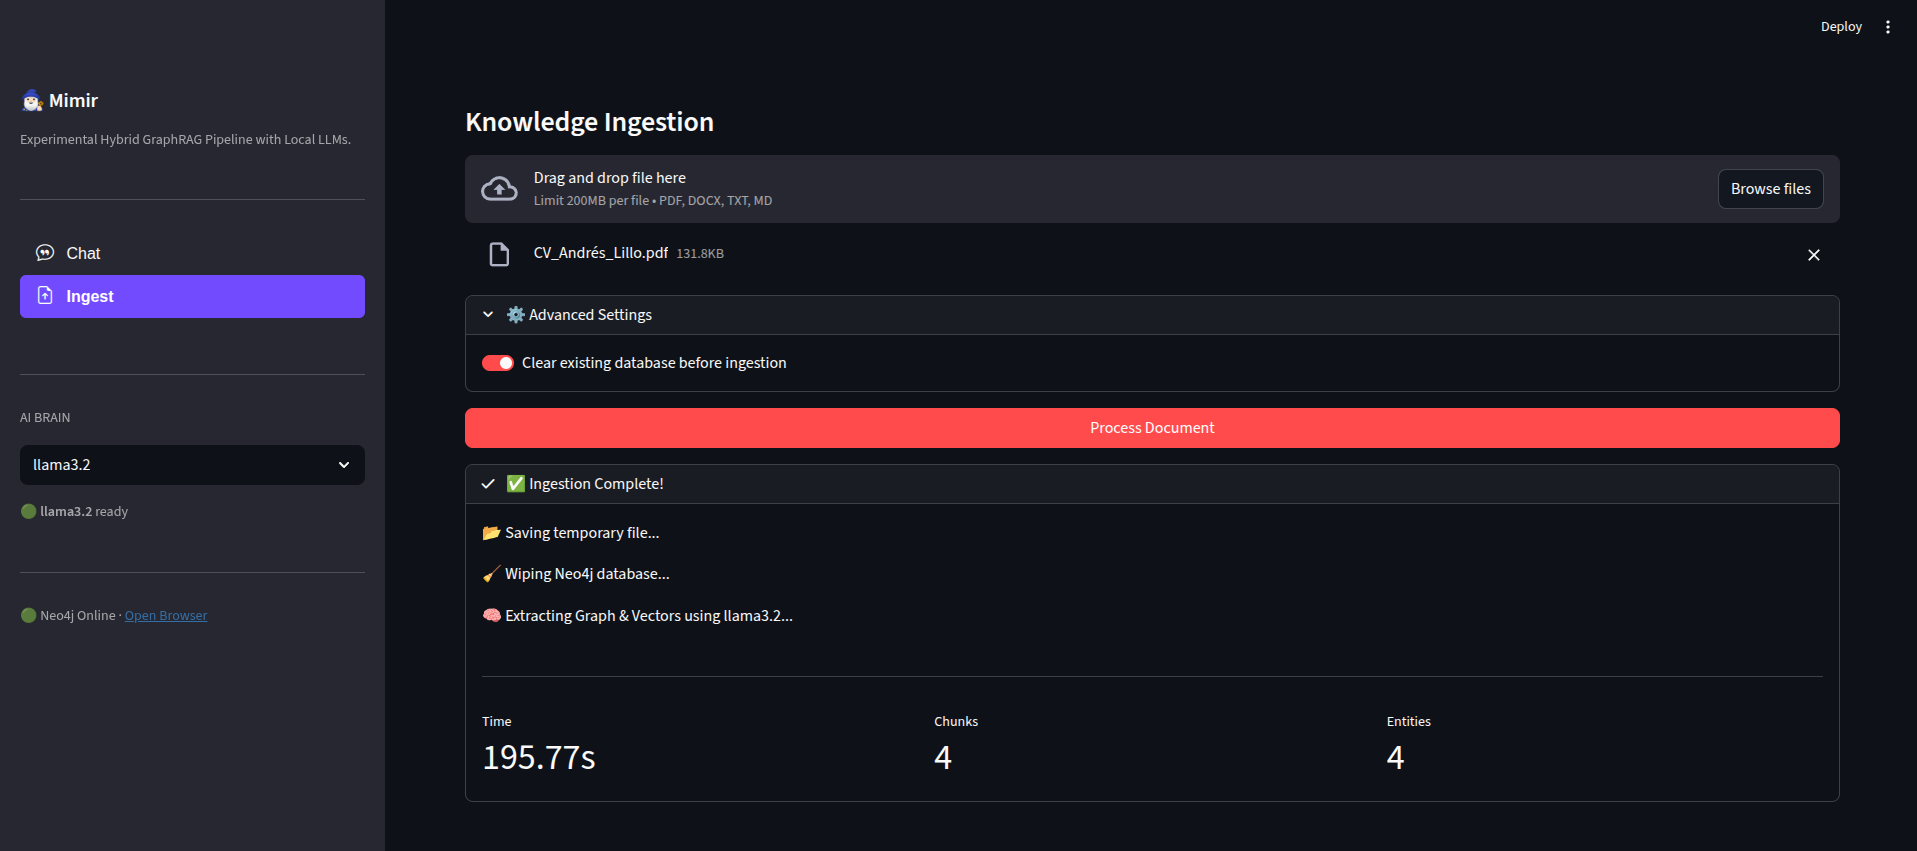
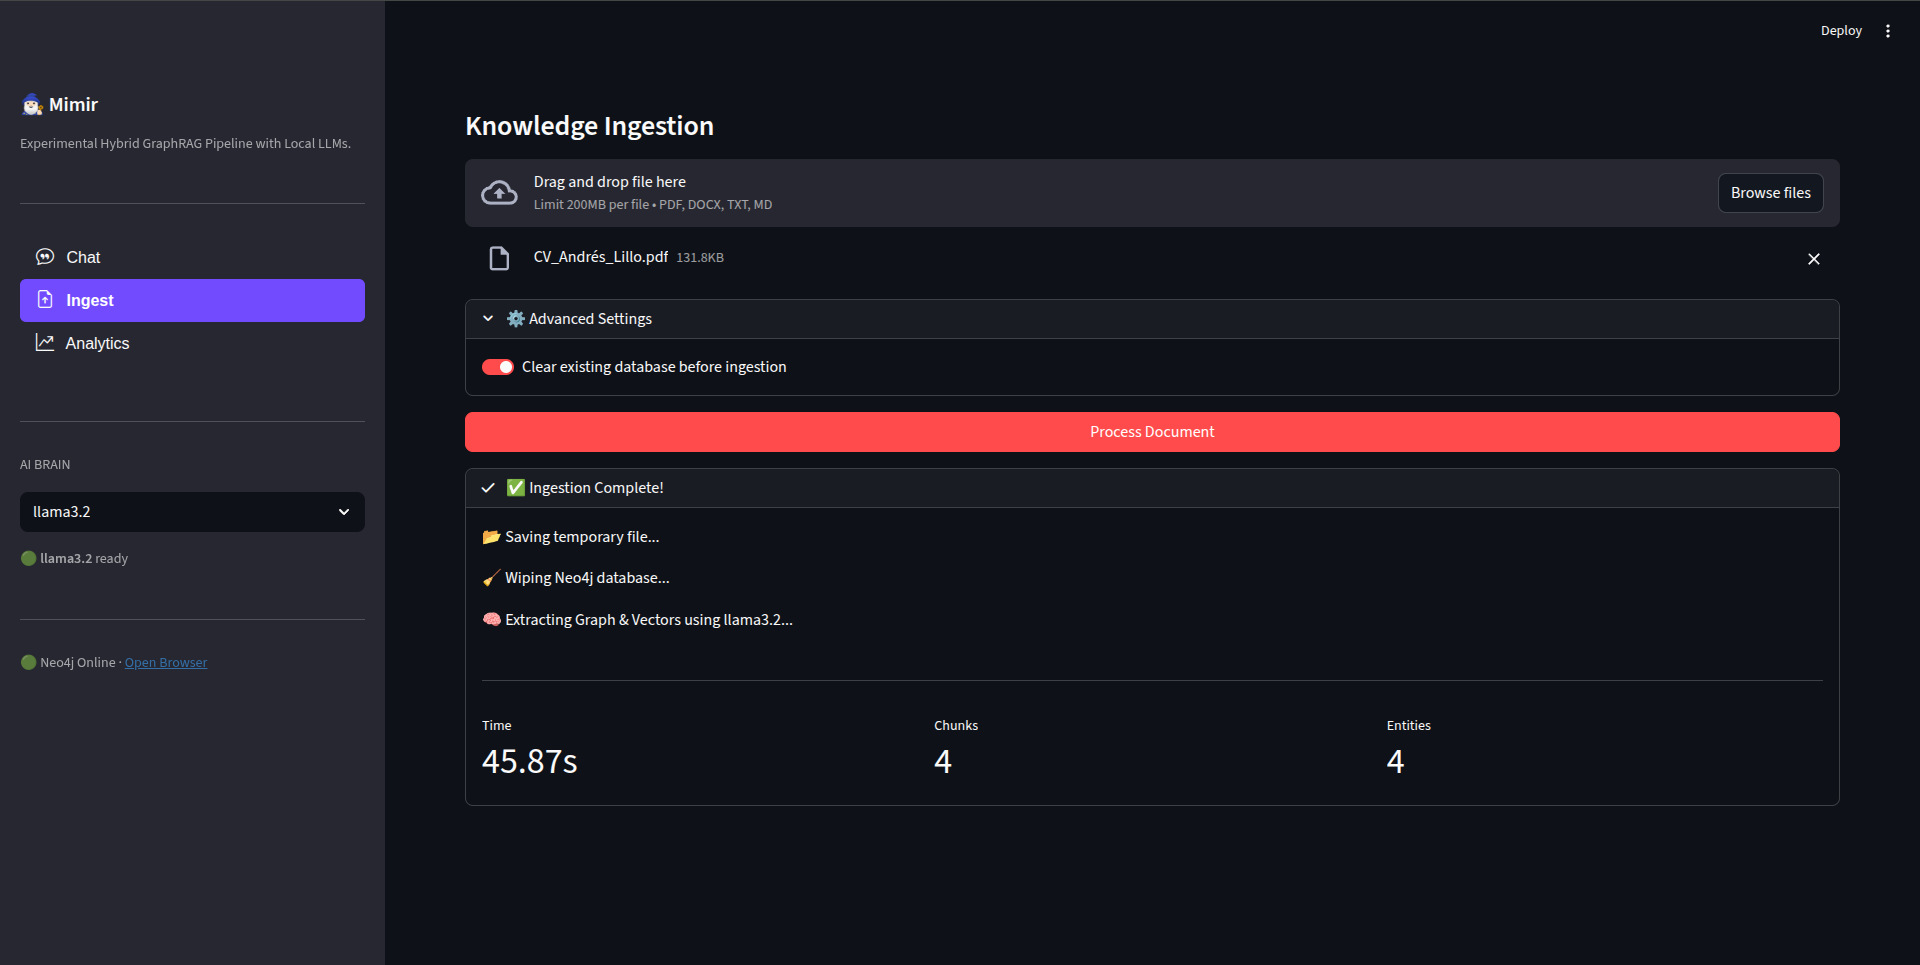
Analytics

diff --git a/modules/analytics.py b/modules/analytics.py
@@ -1,0 +1,108 @@
+# This file is part of Mimir.
+
+# Copyright (C) 2025 Andrés Lillo Ortiz
+
+# This program is free software: you can redistribute it and/or modify
+# it under the terms of the GNU General Public License as published by
+# the Free Software Foundation, either version 3 of the License, or
+# (at your option) any later version.
+
+# This program is distributed in the hope that it will be useful,
+# but WITHOUT ANY WARRANTY; without even the implied warranty of
+# MERCHANTABILITY or FITNESS FOR A PARTICULAR PURPOSE. See the
+# GNU General Public License for more details.
+
+# You should have received a copy of the GNU General Public License
+# along with this program. If not, see <https://www.gnu.org/licenses/>.
+
+import pandas as pd
+
+def get_stats(graph_db):
+    """Returns basic graph statistics (node and edge counts)."""
+    query = """
+    MATCH (n)
+    OPTIONAL MATCH (n)-[r]->()
+    RETURN count(DISTINCT n) as nodes, count(r) as edges
+    """
+    data = graph_db.query(query)
+    return data[0]
+
+def run_pagerank(graph_db, limit=10):
+    """
+    Executes PageRank to find the most influential entities in the graph.
+    """
+    graph_name = "mimir_projection"
+
+    # 1. Clean up previous projection if it exists (safeguard)
+    try:
+        graph_db.query(f"CALL gds.graph.drop('{graph_name}', false) YIELD graphName")
+    except:
+        pass
+
+    try:
+        # 2. Create In-Memory Projection (Required by GDS)
+        # We project everything to analyze the full structure
+        graph_db.query(f"""
+        CALL gds.graph.project(
+            '{graph_name}',
+            '*',
+            '*'
+        )
+        """)
+
+        # 3. Execute PageRank Stream
+        # We filter out 'Chunk' nodes to focus on Concepts/Entities
+        query = f"""
+        CALL gds.pageRank.stream('{graph_name}')
+        YIELD nodeId, score
+        WITH gds.util.asNode(nodeId) AS node, score
+        WHERE NOT 'Chunk' IN labels(node) AND node.id IS NOT NULL
+        RETURN node.id AS Entity, score AS Score
+        ORDER BY Score DESC
+        LIMIT {limit}
+        """
+        result = graph_db.query(query)
+
+        # 4. Cleanup
+        graph_db.query(f"CALL gds.graph.drop('{graph_name}', false) YIELD graphName")
+
+        return pd.DataFrame(result)
+
+    except Exception as e:
+        print(f"GDS Error: {e}")
+        # Cleanup in case of error
+        try: graph_db.query(f"CALL gds.graph.drop('{graph_name}', false) YIELD graphName")
+        except: pass
+        return pd.DataFrame()
+
+def run_community_detection(graph_db):
+    """
+    Executes Louvain algorithm to detect communities (clustered topics).
+    """
+    graph_name = "mimir_community"
+
+    try:
+        graph_db.query(f"CALL gds.graph.drop('{graph_name}', false) YIELD graphName")
+
+        # Only projecting Entity-to-Entity relationships for cleaner topics
+        graph_db.query(f"CALL gds.graph.project('{graph_name}', '*', '*')")
+
+        query = f"""
+        CALL gds.louvain.stream('{graph_name}')
+        YIELD nodeId, communityId
+        WITH gds.util.asNode(nodeId) AS node, communityId
+        WHERE NOT 'Chunk' IN labels(node) AND node.id IS NOT NULL
+        RETURN communityId as Community, count(node) as Members, collect(node.id)[..5] as Examples
+        ORDER BY Members DESC
+        LIMIT 10
+        """
+        result = graph_db.query(query)
+
+        graph_db.query(f"CALL gds.graph.drop('{graph_name}', false) YIELD graphName")
+
+        return pd.DataFrame(result)
+    except Exception as e:
+        print(f"GDS Error: {e}")
+        try: graph_db.query(f"CALL gds.graph.drop('{graph_name}', false) YIELD graphName")
+        except: pass
+        return pd.DataFrame()

diff --git a/mimir.py b/mimir.py
@@ -19,7 +19,7 @@ import streamlit as st
 from streamlit_option_menu import option_menu
 import os
 import tempfile
-from modules import database, ingestor, rag_engine, llm
+from modules import database, ingestor, rag_engine, llm, analytics
 import config
 
 # --- VISUAL CONFIGURATION ---
@@ -42,8 +42,8 @@ def main():
         with st.container():
             view = option_menu(
                 menu_title=None,
-                options=["Chat", "Ingest"],
-                icons=["chat-quote", "file-earmark-arrow-up"],
+                options=["Chat", "Ingest", "Analytics"],
+                icons=["chat-quote", "file-earmark-arrow-up", "graph-up-arrow"],
                 menu_icon="cast",
                 default_index=0,
                 styles={
@@ -163,6 +163,60 @@ def main():
                 except Exception as e:
                     status.update(label="❌ Ingestion Failed", state="error")
                     st.error(f"Error: {e}")
+
+    # 4. VIEW: ANALYTICS (NEW)
+    elif view == "Analytics":
+        st.subheader("Graph Analytics")
+        st.caption("Discover hidden patterns using Neo4j Graph Data Science algorithms.")
+
+        # Connect to DB
+        try:
+            graph = database.get_graph_db()
+
+            # A. General Stats
+            stats = analytics.get_stats(graph)
+            col1, col2 = st.columns(2)
+            col1.metric("Total Nodes", stats['nodes'])
+            col2.metric("Total Relationships", stats['edges'])
+
+            st.divider()
+
+            # B. Trigger Button
+            if st.button("Run Deep Analysis", type="primary"):
+                with st.spinner("Calculating PageRank and Communities..."):
+
+                    # 1. PageRank
+                    st.markdown("### 🏆 Top Influential Concepts (PageRank)")
+                    df_pr = analytics.run_pagerank(graph)
+
+                    if not df_pr.empty:
+                        # Bar Chart
+                        st.bar_chart(df_pr.set_index("Entity"), color="#724BFF")
+                    else:
+                        st.warning("Not enough data. Ingest more documents first.")
+
+                    st.divider()
+
+                    # 2. Communities
+                    st.markdown("### 🧩 Detected Topic Clusters (Louvain)")
+                    df_comm = analytics.run_community_detection(graph)
+
+                    if not df_comm.empty:
+                        st.dataframe(
+                            df_comm,
+                            column_config={
+                                "Community": "ID",
+                                "Members": st.column_config.NumberColumn("Size"),
+                                "Examples": "Sample Entities"
+                            },
+                            width='stretch',
+                            hide_index=True
+                        )
+                    else:
+                        st.info("No clear communities found yet.")
+
+        except Exception as e:
+            st.error(f"Analytics Error: {e}")
 
 if __name__ == "__main__":
     main()

diff --git a/README.md b/README.md
@@ -122,16 +122,16 @@ Before getting started, ensure you have the following installed and configured o
 
 ## Usage Guide
 
-The application is organized into two main views, accessible via the sidebar navigation menu:
+The application is organized into three main views, accessible via the sidebar navigation menu:
 
 ### 1. Sidebar Control Panel
-* **Navigation:** Use the menu to switch between **"Chat"** (Interaction) and **"Ingest"** (Document Management).
+* **Navigation:** Use the menu to switch between **"Chat"** (Interaction), **"Ingest"** (Document Management), and **"Analytics"** (Knowledge Discovery).
 * **AI Brain:** Select the LLM you want to use.
     * *Status Indicators:* 🟢 indicates the model is ready; 🟠 indicates it will be downloaded on first use.
 * **Database Status:** Quickly check if Neo4j is connected and open the Graph Browser via the link.
 
 ### 2. View: Ingest
-Select **"Ingest"** in the sidebar menu to access the document processing pipeline.
+Select **"Ingest"** in the sidebar to access the document processing pipeline.
 1.  **Upload:** Drag and drop your files (`PDF`, `DOCX`, `TXT`, `MD`) into the main area.
 2.  **Settings:** Expand "Advanced Settings" if you wish to clear the database before ingestion.
 3.  **Process:** Click **"Process Document"**. Mimir will display a real-time status log showing:
@@ -143,12 +143,21 @@ Select **"Ingest"** in the sidebar menu to access the document processing pipeli
 ![ingest](screenshots/ingest.png)
 
 ### 3. View: Chat
-Select **"Chat"** in the sidebar menu to query your knowledge base.
+Select **"Chat"** in the sidebar to query your knowledge base.
 * **Ask:** Type natural language queries (e.g., *"What concepts are related to X?"*).
 * **Thinking Process:** The selected model (e.g., Llama 3.2) will analyze the query, generating Cypher queries for the graph and performing vector searches for context.
 * **Result:** The system synthesizes an answer based on the hybrid retrieval.
 
 ![chat](screenshots/chat.png)
+
+### 4. View: Analytics
+Select **"Analytics"** in the sidebar to perform Graph Data Science (GDS) tasks on your ingested data.
+* **Overview:** Instantly view the total count of Nodes (Entities) and Relationships in your Knowledge Graph.
+* **Deep Analysis:** Click **"Run Deep Analysis"** to execute advanced algorithms:
+    * **PageRank:** Visualizes the most influential and central concepts in the graph using an interactive bar chart.
+    * **Community Detection:** Identifies clusters of related topics (using the Louvain algorithm) and presents them in a structured table, helping you understand the thematic structure of the documents.
+
+![analytics](screenshots/analytics.png)
 
 ## Project Structure
 
